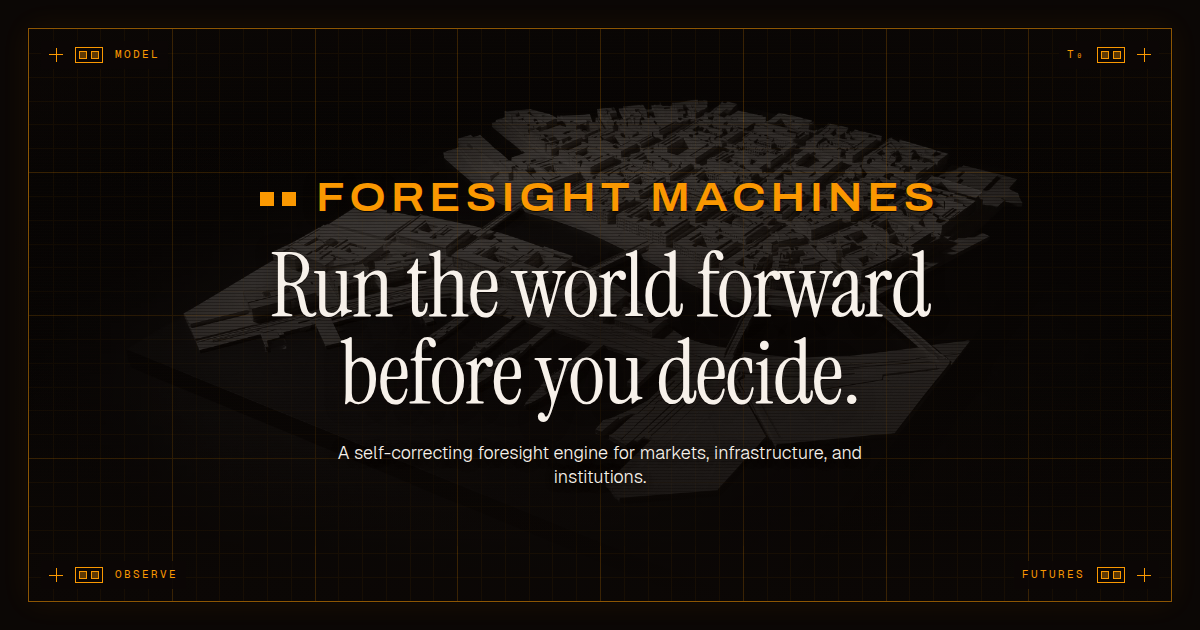
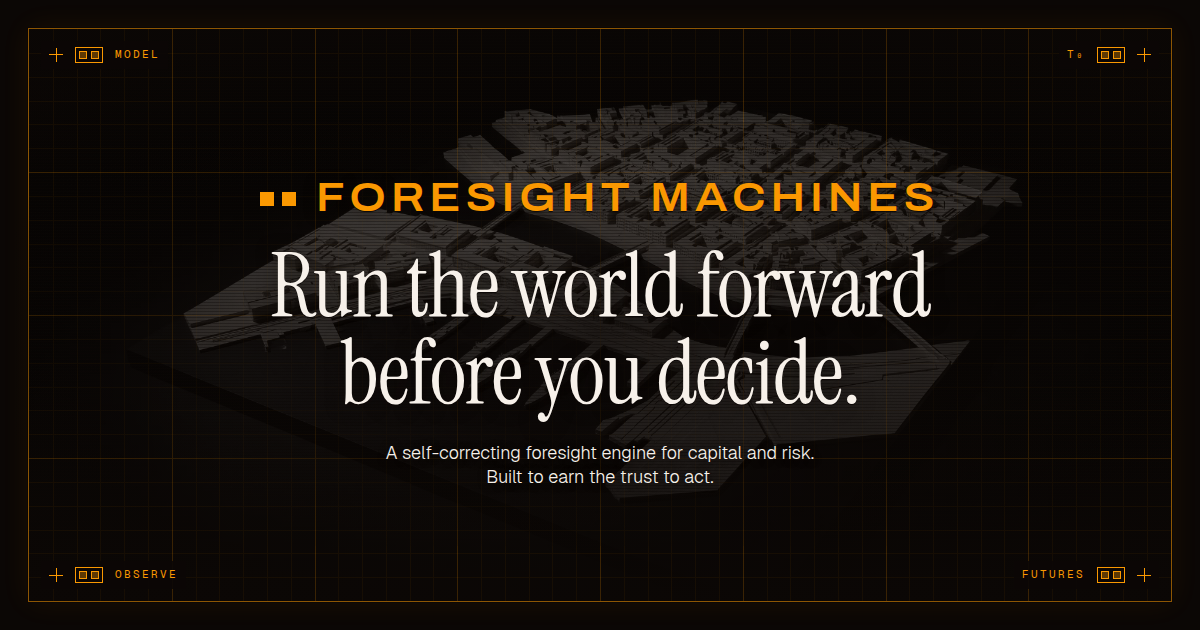
Launch essay refined; hero sub; the mission as movement 07
The hero's sub now reads, a sentence to a line: "A self-correcting
foresight engine for capital and risk. Built to earn the trust to act."

The essay takes the refined text. Movement 01 ends on what connects an
institution's exposures, with the El Niño, AI buildout and digital
dollar examples sourced to FAO, AP, the IEA and Circle; the team
paragraph is gone. 02 names a lender and a government among those who
respond, and the two capabilities as maintaining models and improving
them through a record. 03 makes the relationships executable, keeps what
was known when a decision was made, and forms a shared model. 04 sets
out learning from history without hindsight. 05 frames the issuer's
practical question and the comparison as the useful result; Fig. 02 is
"Rehearsing a reserve decision", with a caption that keeps the history
and the simulation apart. 06 carries learning from one decision into the
next and ties responsibility to demonstrated competence.

The mission becomes movement 07, with its own lamp. Fig. 03 pairs each
decision with the question it should help answer, ending with
Strengthen resilience. The decision screen invites "a consequential
decision", made or to be made. The preview image carries the new sub.

Claude-Session: https://claude.ai/code/session_01KJTweMhfZWuWexSYwMJPUu

Changed region(s): [[0.2775, 0.6937, 0.7092, 0.7841]]

diff --git a/index.html b/index.html
@@ -48,6 +48,7 @@
           <a href="#unlock-2" title="04 · Learning from outcomes" aria-label="04 · Learning from outcomes"></a>
           <a href="#running" title="05 · Running a decision" aria-label="05 · Running a decision"></a>
           <a href="#capability" title="06 · Institutional capability" aria-label="06 · Institutional capability"></a>
+          <a href="#mission" title="07 · The mission" aria-label="07 · The mission"></a>
         </span>
         <a href="#decision" title="Decision" aria-label="Decision"></a>
       </nav>
@@ -71,7 +72,7 @@
       <div class="hero__copy">
         <p class="hero__name"><span class="bar__squares" aria-hidden="true"><i></i><i></i></span>Foresight Machines</p>
         <h1 class="hero__line">Run the world forward before you&nbsp;decide.</h1>
-        <p class="hero__sub">A self-correcting foresight engine for markets, infrastructure, and institutions.</p>
+        <p class="hero__sub"><span>A self-correcting foresight engine for capital and risk.</span> <span>Built to earn the trust to act.</span></p>
       </div>
       <div class="hero__strip" aria-hidden="true" data-hero-lamps>
         <span class="lc"><span class="lc__lamps"><span class="lc__row"><i class="d"></i><i class="a"></i><i class="d"></i><i class="a"></i></span></span></span>
@@ -94,12 +95,10 @@
             <h2 class="essay__title" id="launch" data-move><span class="essay__code" aria-hidden="true">01</span>Foresight, made a machine.</h2>
             <p>Today we are introducing Foresight Machines. We are building AI systems that model the world around an institution, examine the consequences of its choices, and learn from what happens next.</p>
             <p>A bank should be able to prepare for a run, an insurer to underwrite a hard-to-price specialty risk, a developer to weigh a power delay before committing capital. Our ambition is to make that foresight a permanent capability of institutions.</p>
-            <p>Every institution already has a model of the future. A quant expresses it in equations, an analyst in a forecast, an investment committee in the assumptions behind an approval. Demand will hold. Funding will remain available. A supplier will deliver. These beliefs determine what gets financed, insured, and built, yet the connections between them often go unexamined. And rarely has the world they describe been so entangled: trade has become an instrument of state, capital moves at the speed of software, and a shock in one market reaches the next before it has a name.</p>
-            <p>From a super El Niño that could unsettle harvests and food prices, to an AI buildout that strains power grids and construction capacity, to digital dollars that carry banking risk into software, each development reaches beyond the field in which it begins. The surprise often lies in the interaction: a shortage prompts an export restriction, a power delay becomes a financing problem, a frozen deposit becomes a run on a different institution. Understanding the parts is only the beginning of understanding what they can do together.</p>
-            <p class="essay__src"><span>Sources</span><a href="https://www.noaa.gov/understanding-el-nino" target="_blank" rel="noopener">El Niño impacts</a><a href="https://www.iea.org/reports/energy-and-ai/energy-demand-from-ai" target="_blank" rel="noopener">AI and energy</a></p>
+            <p>Every institution already has a model of the future. A quant expresses it in equations, an analyst in a forecast, an investment committee in the assumptions behind an approval. Demand will hold. Funding will remain available. A supplier will deliver. These beliefs determine what gets financed, insured, and built. An institution can understand each exposure in isolation and still miss what connects them.</p>
+            <p>A super El Niño can disrupt harvests, lift food prices, and provoke export restrictions. The AI buildout can strain power supply, delay construction, and put financing at risk. A digital dollar can carry a bank&rsquo;s failure into markets that trade around the clock. Each changes the conditions under which other commitments were made.</p>
+            <p class="essay__src"><span>Sources</span><a href="https://www.fao.org/el-nino/en" target="_blank" rel="noopener">El Niño and agriculture</a><a href="https://apnews.com/article/aa7135b3a7f5ef9df440e94825880346" target="_blank" rel="noopener">Food markets and export restrictions</a><a href="https://www.iea.org/reports/energy-and-ai/energy-demand-from-ai" target="_blank" rel="noopener">AI and energy</a><a href="https://www.circle.com/pressroom/3-3-billion-of-usdc-reserve-risk-removed-dollar-de-peg-closes" target="_blank" rel="noopener">Circle&rsquo;s account</a></p>
             <p>An institution needs a way to follow those connections and test its choices against them. The model behind a consequential decision should be something it can inspect, run, and improve.</p>
-            <p>Our team brings together forecasters, pioneers of agent-based simulation, capital allocators, and a co-developer of synthetic control methods. Each addresses a different part of the problem: what may happen, how it could unfold, and what an intervention would change.</p>
-            <p class="essay__src"><span>Source</span><a href="https://en.wikipedia.org/wiki/Synthetic_control_method" target="_blank" rel="noopener">Synthetic control methods</a></p>
 
             <h3 id="challenge" data-move><span class="essay__code" aria-hidden="true">02</span>The challenge: turn foresight into an instrument</h3>
             <p>Superforecasting showed that judgment about the future can be trained, scored, and improved. AI is now reaching that standard. In the Summer 2026 Metaculus Cup, AI systems finished first and second overall, ahead of every human entrant. This is a significant advance in our ability to anticipate events.</p>
@@ -109,38 +108,37 @@
             <p>An institution must connect those expectations to its own choices. A forecast of higher interest rates is an input; deciding whether to refinance requires a model of its debt, cash flows, and alternatives. The same forecast can justify different actions for different institutions. What matters is how an event reaches the institution, what it can do in response, and how that response changes the outcome.</p>
             <p>Weather forecasting offers a precedent. Observations feed models of the atmosphere; forecasts are checked against the weather that arrives; errors inform the next improvement. This discipline creates value wherever a better view of tomorrow changes what people do today: routing aircraft, dispatching power, planning harvests, and moving goods.</p>
             <p class="essay__src"><span>Sources</span><a href="https://weather.metoffice.gov.uk/learn-about/how-forecasts-are-made" target="_blank" rel="noopener">How forecasts are made</a><a href="https://www.metoffice.gov.uk/about-us/who-we-are/impact" target="_blank" rel="noopener">Forecasts in use</a></p>
-            <p>Markets and institutions introduce a further difficulty: people respond. A depositor withdraws because others might, a competitor invests because demand is rising, a regulator intervenes because a market is failing. A decision changes the conditions under which other decisions are made.</p>
-            <p>We want to bring the discipline of weather forecasting to this world of interacting decisions. Two capabilities are opening the way: the ability to maintain richer models at lower cost, and to train and test their judgment against outcomes.</p>
+            <p>Markets and institutions introduce a further difficulty: people respond. A depositor withdraws because others might, a lender tightens terms as risk rises, a government intervenes to contain a shortage. Their responses change the conditions under which other decisions are made.</p>
+            <p>We want to bring the discipline of weather forecasting to this world of interacting decisions. Two capabilities are opening the way: maintaining models as the world changes, and improving them through a record of what they get right and wrong.</p>
 
             <h3 id="unlock-1" data-move><span class="essay__code" aria-hidden="true">03</span>Unlock 1: Models that stay current</h3>
             <p>Much of the knowledge needed to model an institution sits in contracts, filings, operating reports, and the heads of specialists. Turning it into a working model has required painstaking translation. Keeping it current has required doing that work again.</p>
             <p>Language models can take on more of this translation: extracting an obligation from a contract, a dependency from an operating report, a constraint from a regulation. Connected to current observations, these capabilities make it more practical to maintain a model as the world changes.</p>
-            <p>The model must preserve the nature of what it contains. A contractual payment is an obligation; a power limit is a physical constraint; a forecast of withdrawals is an estimate of behavior. Each needs an appropriate method and a traceable basis. Fluent descriptions alone do not establish how a system works. It must also preserve when each fact was known, so that a decision is judged against the evidence available then, not what arrived afterward.</p>
-            <p>With those relationships represented, an institution can compare actions against the same evidence. It can examine what drives the result, where uncertainty changes the choice, and which missing fact would be worth learning before it commits.</p>
+            <p>The model must preserve the nature of what it contains. A contractual payment is an obligation; a power limit is a physical constraint; a forecast of withdrawals is an estimate of behavior. Each needs an appropriate method and a traceable basis. The relationships must also be executable, so the machine can calculate how a change affects the commitments that depend on it.</p>
+            <p>It must preserve what was known when a decision was made, along with what changed afterward. An institution should be able to examine both its current understanding and the evidence on which an earlier commitment rested.</p>
+            <p>Together, these relationships form a shared model of the institution and the systems it depends on. Different choices can be compared against the same evidence. When an assumption changes, the machine should show which commitments need another look&mdash;and which missing information could change the decision.</p>
 
             <h3 id="unlock-2" data-move><span class="essay__code" aria-hidden="true">04</span>Unlock 2: Learning from outcomes</h3>
             <p>A model earns trust by exposing itself to correction. Its expectations must be recorded before events unfold, its errors preserved after they do, its revisions tested before they are relied upon.</p>
-            <p>For a reserve decision like the one that follows, the machine would commit its estimates of withdrawals, cash availability, and funding costs. Outcomes would test those estimates. Repeatedly understating the speed of redemptions would reveal a weakness; a proposed correction would have to improve performance on cases withheld from its development.</p>
+            <p>History can accelerate that process. Past events provide situations to reconstruct, expectations to test, and outcomes to learn from. We are building the machinery to recover the evidence available at each point and test a model without giving it knowledge of what followed. This would let successive versions learn from a body of experience already available, while reserving separate cases to test whether they have improved. Expectations recorded ahead of new events provide the continuing test.</p>
+            <p>For a reserve model, that means recording estimates of withdrawals, cash availability, and funding costs, then comparing them with what follows. If withdrawals repeatedly arrive faster than expected, the record should expose the error. A proposed correction must improve performance on cases that were not used to develop it.</p>
             <p>This is what we mean by self-correcting: a process that makes mistakes visible and tests whether a change remedies them.</p>
-            <p>Historical events can accelerate that process, provided later knowledge is excluded from the evidence and the model being tested. Research on training language models with resolved forecasting questions offers evidence that outcomes can improve predictive accuracy and calibration. Live forecasts, recorded in advance, remain the continuing test.</p>
-            <p class="essay__src"><span>Source</span><a href="https://arxiv.org/abs/2601.06336" target="_blank" rel="noopener">Future-as-Label research</a></p>
             <p>Judging a decision requires another distinction. We observe what followed the action taken; the effects of alternatives must be estimated. A fortunate outcome can reward a poor decision, and an unlucky one can punish a sound decision. The machine therefore needs a record across many cases, with forecast accuracy assessed separately from evidence about what its actions changed.</p>
-            <p>Over time, an institution gains a history it can learn from: what it believed, why it acted, and where its understanding failed.</p>
             <figure class="fig fig--loop plate">
               <figcaption class="plate__head"><span class="plate__fig">Fig. 01 — The learning loop</span></figcaption>
               <div class="instrument" data-instrument><div class="instrument__figure" data-instrument-figure></div></div>
-              <p class="plate__caption">Observe, model, compare actions, record expectations, evaluate outcomes, test corrections. The original forecast is preserved alongside every revision.</p>
+              <p class="plate__caption">Record expectations, evaluate outcomes, test corrections. Preserve the original expectation alongside every revision.</p>
             </figure>
 
             <h3 id="running" data-move><span class="essay__code" aria-hidden="true">05</span>Running a decision</h3>
             <p>In March 2023, Silicon Valley Bank failed with $3.3 billion of Circle&rsquo;s USDC reserves on deposit. USDC broke its dollar peg. Authorities subsequently protected all SVB deposits, restoring access to the funds. A digital dollar transferable around the clock had depended on bank deposits its issuer could not immediately reach.</p>
             <p class="essay__src"><span>Sources</span><a href="https://www.circle.com/pressroom/3-3-billion-of-usdc-reserve-risk-removed-dollar-de-peg-closes" target="_blank" rel="noopener">Circle&rsquo;s account</a><a href="https://www.federalreserve.gov/newsevents/pressreleases/monetary20230312b.htm" target="_blank" rel="noopener">Official intervention</a></p>
-            <p>Consider the decision every issuer faces before such a crisis: how should it arrange its reserves so it can keep meeting redemptions when access to part of them is interrupted?</p>
+            <p>Before such a crisis, an issuer faces a practical question: how should it arrange its reserves so it can keep meeting redemptions when access to part of them is interrupted?</p>
             <p>A foresight machine would connect the issuer&rsquo;s holdings to its banking partners, settlement arrangements, and redemption obligations. It would examine how rising rates and tighter funding could affect several counterparties at once, and how doubts about reserve access could accelerate demand for redemption. Spreading cash across banks may still leave it exposed to a common shock.</p>
-            <p>The issuer could then compare changes to its banking mix, reserve liquidity, and backup funding. For each combination, the machine would estimate how much cash could be reached by a given deadline, how much redemption demand it could meet, and what that protection would cost. Policy support would be a scenario to test alongside delayed intervention and no intervention.</p>
-            <p>As evidence changed, the model would show which assumptions had weakened and which choices remained viable. The decision would turn on the time an issuer could withstand interrupted access, the price of extending that time, and the conditions under which its defenses would fail.</p>
+            <p>The issuer could compare changes to its banking mix, reserve liquidity, and backup funding. The machine would estimate the funds each arrangement could make available by a given deadline, the demand it could meet, and the cost of that protection. It would test timely policy support alongside delayed intervention and no intervention.</p>
+            <p>As evidence changed, the model would show which assumptions had weakened and which choices remained viable. The useful result is a comparison: how long each arrangement could withstand interrupted access, what extending that time would cost, and under which conditions it would fail to meet redemptions.</p>
             <figure class="fig fig--reserve plate" data-reserve aria-labelledby="reserve-title">
-              <figcaption class="plate__head"><span class="plate__fig" id="reserve-title">Fig. 02 — A reserve decision, as the engine runs it</span></figcaption>
+              <figcaption class="plate__head"><span class="plate__fig" id="reserve-title">Fig. 02 — Rehearsing a reserve decision</span></figcaption>
               <p class="reserve__record"><b>Record</b><span>March 2023</span><span>$3.3 billion of USDC reserves at Silicon Valley Bank</span><span>Peg broken</span><span>Deposits protected 12 March</span></p>
               <div class="engine" data-engine>
                 <div class="engine__bar">
@@ -196,16 +194,16 @@
                   </div>
                 </form>
               </div>
-              <p class="plate__caption">Compare reserve arrangements, interrupt access to a banking partner, and vary redemption demand and the timing of policy support. Inspect where each arrangement holds and where it fails. The record above is history; the issuer below is synthetic.</p>
+              <p class="plate__caption">An illustrative issuer and explicitly assumed conditions show how a disruption changes the comparison between reserve arrangements. The historical account provides context; the simulation does not reproduce Circle&rsquo;s private operations.</p>
             </figure>
             <p>The output is a rehearsal of the decision, while there is still time to make it differently.</p>
 
             <h3 id="capability" data-move><span class="essay__code" aria-hidden="true">06</span>Foresight as an institutional capability</h3>
-            <p>An institution should be able to carry what it learns from one decision into the next. The evidence behind an investment, the dependencies behind a supply commitment, and the assumptions behind an underwriting decision should remain available for examination. When conditions change, the institution should know which commitments need another look.</p>
+            <p>An institution should be able to carry what it learns from one decision into the next. A model built to assess a counterparty can inform a financing choice. Evidence gathered for a supply commitment can inform the next investment. As tested relationships accumulate, the institution gains a more coherent understanding of the systems it depends on.</p>
             <p>Better foresight can also expand what an institution is willing to undertake. An insurer can examine whether a hard-to-price specialty risk becomes insurable under different terms. A business can test whether a new market becomes viable with a different partner, a smaller initial commitment, or a later launch. The machine should help identify the conditions that make an opportunity worth pursuing.</p>
-            <p>As the machines earn trust, we intend for them to assume responsibility within defined mandates. An allocation can be made, monitored, and revised by the same system, with the evidence for each action available for inspection.</p>
-            <aside class="mission fig" aria-labelledby="mission-title">
-              <p class="mission__strip" aria-hidden="true"><span>06<span class="bar__squares"><i></i><i></i></span></span><span class="mission__lamps"><i class="is-lit"></i><i></i></span></p>
+            <p>As their record earns an institution&rsquo;s trust, the machines should be able to act within defined mandates. An allocation could be proposed, carried out, and monitored by the same system. Greater responsibility would follow demonstrated competence in the decisions being delegated.</p>
+            <aside class="mission fig" id="mission" data-move aria-labelledby="mission-title">
+              <p class="mission__strip" aria-hidden="true"><span>07<span class="bar__squares"><i></i><i></i></span></span><span class="mission__lamps"><i class="is-lit"></i><i></i></span></p>
               <div class="mission__body">
                 <div class="mission__image" aria-hidden="true"><img src="/hero-1200.webp" alt="" width="1200" height="675" loading="lazy" decoding="async" /></div>
                 <div class="mission__main">
@@ -224,7 +222,9 @@
             </aside>
             <figure class="fig fig--actions">
               <figcaption class="plate__head"><span class="plate__fig">Fig. 03 — Where foresight meets action</span></figcaption>
-              <ol class="acts" data-actions aria-label="Actions"></ol>
+              <p class="acts__head" aria-hidden="true"><span></span><span>Decision</span><span>The question it should help answer</span></p>
+              <ol class="acts" data-actions aria-label="Decisions and the questions they should help answer"></ol>
+              <p class="plate__caption">A shared model supports different institutional decisions.</p>
             </figure>
             <p>Weather forecasting earned its place in the economy through use, measurement, and improvement. We want foresight about the systems people build to earn the same standing.</p>
             <p class="essay__close">The hardest decisions are not unknowable. <em>They are unrun.</em></p>
@@ -236,8 +236,8 @@
         <p class="screen__bar"><span class="bar__squares" aria-hidden="true"><i></i><i></i></span><span class="screen__code">Sec-02</span><span class="screen__name">Decision</span><i class="screen__cross" aria-hidden="true"></i></p>
         <span class="screen__corner screen__corner--tl" aria-hidden="true"></span><span class="screen__corner screen__corner--tr" aria-hidden="true"></span><span class="screen__corner screen__corner--bl" aria-hidden="true"></span><span class="screen__corner screen__corner--br" aria-hidden="true"></span>
         <div class="screen__body">
-          <h2 class="screen__title">Bring us a decision you haven&rsquo;t made yet.</h2>
-          <p class="screen__lead">Tell us what is at stake, what you are considering, and what would change your mind.</p>
+          <h2 class="screen__title">Bring us a consequential decision.</h2>
+          <p class="screen__lead">One you are preparing to make, or one you need to understand better. Tell us what is at stake, what you are considering, and what would change your mind.</p>
           <form class="form" data-decision-form>
             <label>The decision
               <textarea name="decision" placeholder="The action you are weighing, and when it has to be made" required></textarea>

diff --git a/src/data/actions.ts b/src/data/actions.ts
@@ -1,6 +1,6 @@
 /**
- * Where foresight meets action: five actions, each stated as a general
- * capability rather than a single example.
+ * Where foresight meets action: five decisions a shared model supports, each
+ * with the question it should help answer.
  */
 
 export type Action = {
@@ -11,34 +11,9 @@ export type Action = {
 };
 
 export const ACTIONS: Action[] = [
-  {
-    ordinal: '01',
-    verb: 'Allocate',
-    object: 'capital',
-    line: 'The trillions in sovereign wealth, private credit, and infrastructure, and the new banks and primitives being built beside them: each allocation run before it is made.',
-  },
-  {
-    ordinal: '02',
-    verb: 'Underwrite',
-    object: 'risk',
-    line: 'A risk with no loss history yet, priced from the futures it could set in motion.',
-  },
-  {
-    ordinal: '03',
-    verb: 'Hedge',
-    object: 'exposure',
-    line: 'A position held against rates, prices, weather, and the moves that come at once.',
-  },
-  {
-    ordinal: '04',
-    verb: 'Procure',
-    object: 'supply',
-    line: 'Capacity, energy, inputs, bought against demand, outages, and the next constraint.',
-  },
-  {
-    ordinal: '05',
-    verb: 'Intervene',
-    object: 'a system',
-    line: 'A port, a grid, a market: where failure spreads, and where to act so it is contained.',
-  },
+  { ordinal: '01', verb: 'Allocate', object: 'capital', line: 'Which commitment remains viable when its funding, costs, or timing change?' },
+  { ordinal: '02', verb: 'Underwrite', object: 'risk', line: 'Under what terms does a hard-to-price specialty risk become worth carrying?' },
+  { ordinal: '03', verb: 'Hedge', object: 'exposure', line: 'Which protection still works when losses arrive together?' },
+  { ordinal: '04', verb: 'Procure', object: 'supply', line: 'Which arrangement can meet demand when capacity or delivery is disrupted?' },
+  { ordinal: '05', verb: 'Strengthen', object: 'resilience', line: 'Where could an intervention contain a failure before it spreads?' },
 ];

diff --git a/src/styles/site.css b/src/styles/site.css
@@ -2676,3 +2676,40 @@ button:focus-visible {
   height: 1px;
   opacity: 0;
 }
+
+/* Fig. 03: the two columns named, quietly, above the index. */
+.essay p.acts__head {
+  display: none;
+}
+
+@media (min-width: 800px) {
+  .essay p.acts__head {
+    display: grid;
+    grid-template-columns: 3.25rem 15rem minmax(0, 1fr);
+    padding: 0.7rem 0 0.6rem;
+    border-bottom: 1px solid var(--rule);
+    font-family: var(--mono);
+    font-size: 0.625rem;
+    font-weight: 500;
+    line-height: 1.4;
+    letter-spacing: 0.18em;
+    text-transform: uppercase;
+    color: var(--ink-4);
+  }
+
+  .essay p.acts__head span:last-child {
+    padding-left: 1rem;
+  }
+}
+
+.essay .fig--actions .plate__caption {
+  margin: 0.9rem 0 0;
+  font-size: 0.9375rem;
+  color: var(--ink-3);
+}
+
+/* The hero's sub: two sentences, each on its own line. */
+.hero .hero__sub span {
+  display: block;
+  text-wrap: balance;
+}
